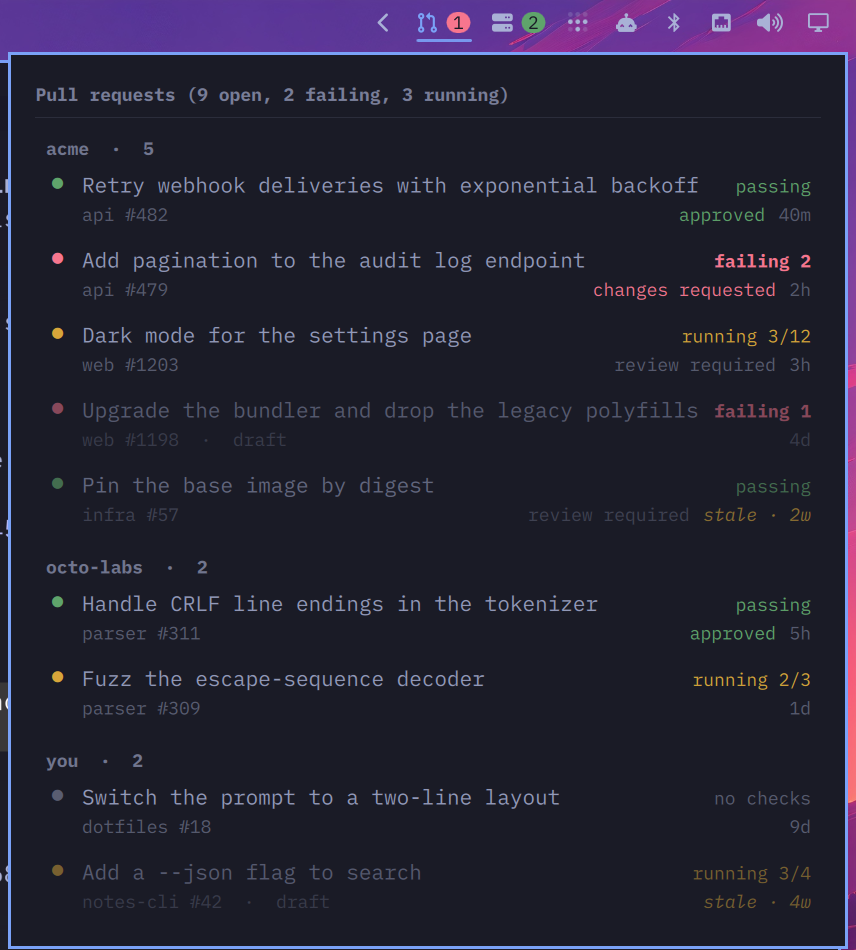
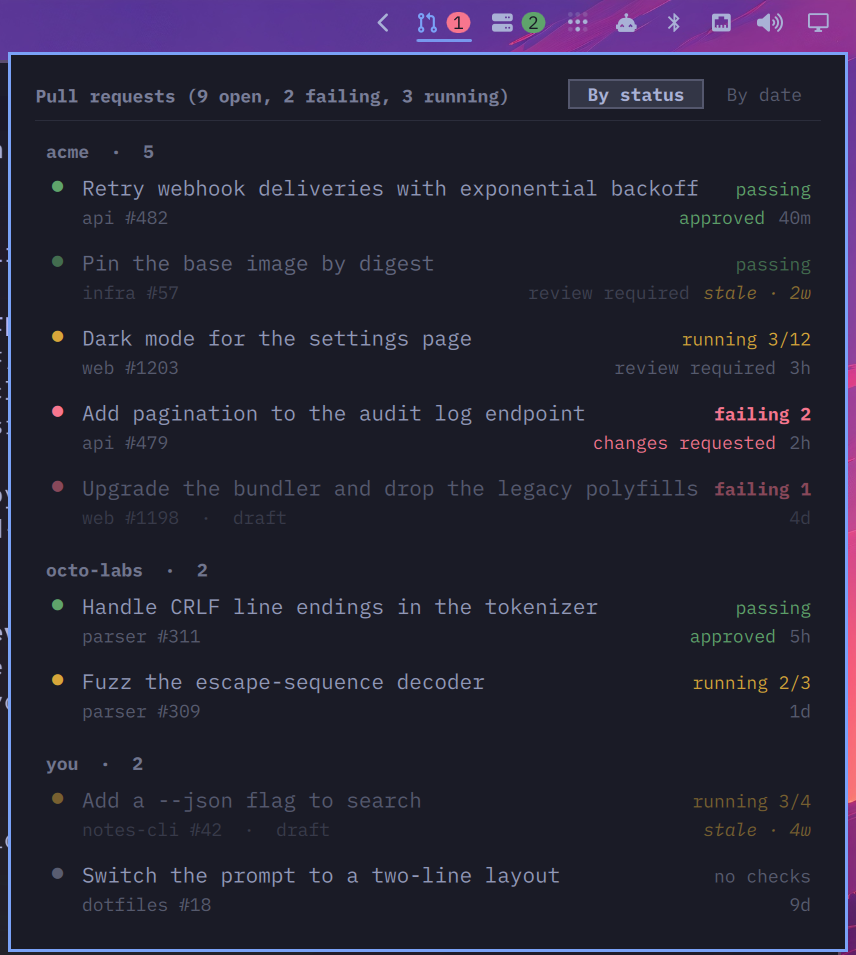
Add a by-status / by-date sort switch to the panel header
By status, the default, lists passing PRs first, then running, failing
and unchecked ones, drafts after the rest in each and newest first within
that, and puts owners with anything passing first. By date is the
previous order: newest first throughout. The s key switches too.

The choice is saved in ~/.local/state/omarchy-gh-prs/sort rather than in
shell.json: other widgets save shell.json from their own copy of it, and
a sort written there was overwritten within seconds in testing.

Also bind x to arming Close PR through PanelKeyCatcher's deleteRequested,
since the catcher never passes x on as a text key.

Claude-Session: https://claude.ai/code/session_01M35wvbyhhMxNppSu6vjHGk

diff --git a/Panel.qml b/Panel.qml
@@ -70,6 +70,11 @@ Panel {
   readonly property int intervalSeconds:
     Math.max(30, Number(setting("interval", 60)) || 60)
   readonly property string query: String(setting("query", ""))
+  // "status" puts what is ready to merge on top; "date" is plain recency.
+  // Chosen from the header and kept in the plugin's own state file rather
+  // than in shell.json: other widgets save shell.json from their own copy of
+  // it, and a choice written there was seen to be overwritten seconds later.
+  property string sortMode: "status"
 
   // ---------------------------------------------------------------- state
 
@@ -188,6 +193,44 @@ Panel {
 
   // Owner headings and PR rows in one flat list, so one ListView scrolls the
   // lot and the cursor can step over the headings.
+  // By status: passing first, then running, failing, and no checks, drafts
+  // after the rest within each, newest first within that. Owners with
+  // anything passing come first, then by their newest PR. By date: newest
+  // first, PRs and owners alike. The script already sends both by date.
+  function sortGroups(groups) {
+    if (sortMode === "date") return groups
+    var rank = { passing: 0, running: 1, failing: 2, none: 3 }
+    function newest(a, b) { return a.updatedAt < b.updatedAt ? 1 : a.updatedAt > b.updatedAt ? -1 : 0 }
+    var out = groups.map(function(g) {
+      var prs = g.prs.slice().sort(function(a, b) {
+        return (rank[a.state] - rank[b.state])
+          || ((a.draft ? 1 : 0) - (b.draft ? 1 : 0))
+          || newest(a, b)
+      })
+      var anyPassing = g.prs.some(function(pr) { return pr.state === "passing" })
+      var latest = g.prs.reduce(function(m, pr) { return pr.updatedAt > m ? pr.updatedAt : m }, "")
+      return { owner: g.owner, failing: g.failing, prs: prs, anyPassing: anyPassing, latest: latest }
+    })
+    out.sort(function(a, b) {
+      return ((b.anyPassing ? 1 : 0) - (a.anyPassing ? 1 : 0))
+        || (a.latest < b.latest ? 1 : a.latest > b.latest ? -1 : 0)
+    })
+    return out
+  }
+
+  function setSort(mode) {
+    if ((mode !== "status" && mode !== "date") || mode === sortMode) return
+    sortMode = mode
+    Util.execArgv([root.script, "sort", mode])
+  }
+
+  function rebuildRows() {
+    rows = flatten(sortGroups(payload ? payload.groups || [] : []))
+    if (!isPr(cursor)) cursor = -1
+  }
+
+  onSortModeChanged: rebuildRows()
+
   function flatten(groups) {
     var out = []
     for (var i = 0; i < groups.length; i++) {
@@ -300,8 +343,7 @@ Panel {
       errorText = data.error || ""
       if (!reachable) return
       payload = data
-      rows = flatten(data.groups || [])
-      if (!isPr(cursor)) cursor = -1
+      rebuildRows()
     } catch (e) {
       reachable = false
       errorText = "unexpected output from gh-prs"
@@ -471,6 +513,19 @@ Panel {
     }
   }
 
+  // The saved sort order, read once at load.
+  Process {
+    id: sortProc
+    command: [root.script, "sort"]
+    running: true
+    stdout: StdioCollector {
+      onStreamFinished: {
+        var m = text.trim()
+        if (m === "status" || m === "date") root.sortMode = m
+      }
+    }
+  }
+
   Process {
     id: listProc
     stdout: StdioCollector {
@@ -518,6 +573,9 @@ Panel {
     triggeredOnStart: true
     onTriggered: root.refresh()
   }
+
+
+
 
 
   BarIconButton {
@@ -596,6 +654,8 @@ Panel {
         if (root.view === "list" && dy !== 0) root.moveCursor(dy)
         else if (root.view === "detail" && dx < 0) root.back()
       }
+      // PanelKeyCatcher hands `x` to deleteRequested rather than textKey.
+      onDeleteRequested: if (root.view === "detail") root.armClose()
       onActivateRequested: {
         if (root.view === "list" && root.isPr(root.cursor)) root.showDetail(root.rows[root.cursor])
       }
@@ -609,7 +669,7 @@ Panel {
         // These only arm the action and show what it will do; the confirm
         // itself is a click, so no run of keystrokes can merge or close.
         else if (t === "m" && root.view === "detail") root.armMerge()
-        else if (t === "x" && root.view === "detail") root.armClose()
+        else if (t === "s" && root.view === "list") root.setSort(root.sortMode === "status" ? "date" : "status")
       }
 
       Column {
@@ -619,8 +679,16 @@ Panel {
 
         // ------------------------------------------------------- header
 
-        PanelSectionHeader {
+        Item {
           width: parent.width
+          height: Math.max(header.implicitHeight, sortSwitch.implicitHeight)
+
+        PanelSectionHeader {
+          id: header
+          anchors.left: parent.left
+          anchors.right: sortSwitch.visible ? sortSwitch.left : parent.right
+          anchors.rightMargin: sortSwitch.visible ? Style.space(8) : 0
+          anchors.verticalCenter: parent.verticalCenter
           text: root.view === "detail" && root.shown
             ? root.shown.repoFull + " #" + root.shown.number
             : root.titleText() + (root.loading ? "  …" : "")
@@ -628,6 +696,34 @@ Panel {
           elide: Text.ElideRight
           foreground: root.foreground
           fontFamily: root.fontFamily
+        }
+
+        // Two states, both always visible, so it reads as "which order" and
+        // not as a button that does something.
+        Row {
+          id: sortSwitch
+          visible: root.view === "list"
+          anchors.right: parent.right
+          anchors.verticalCenter: parent.verticalCenter
+          spacing: Style.space(2)
+
+          Repeater {
+            model: [{ mode: "status", label: "By status" }, { mode: "date", label: "By date" }]
+
+            Button {
+              required property var modelData
+              text: modelData.label
+              selected: root.sortMode === modelData.mode
+              bordered: root.sortMode === modelData.mode
+              fontSize: Style.font.caption
+              verticalPadding: Style.space(1)
+              foreground: root.sortMode === modelData.mode ? root.foreground : root.quiet
+              fontFamily: root.fontFamily
+              tooltipText: "Sort " + modelData.label.toLowerCase() + " (s)"
+              onClicked: root.setSort(modelData.mode)
+            }
+          }
+        }
         }
 
         PanelSeparator { width: parent.width }

diff --git a/README.md b/README.md
@@ -14,8 +14,16 @@ failing, yellow when it is only counting checks still running, and gone when
 there is nothing to count. The tooltip spells out the totals.
 
 The panel lists every open PR, grouped by the org or user that owns the
-repository. Groups are ordered by their most recently updated PR, and PRs
-within a group newest first. Each row has:
+repository, in one of two orders, switched from the header:
+
+- **By status** (the default): within each owner, passing PRs first, then
+  running, failing, and those with no checks, drafts after the rest in each,
+  and newest first within that. Owners with anything passing come first, then
+  by their most recently updated PR.
+- **By date**: newest first, PRs and owners alike, whatever their checks say.
+
+The choice is saved in `~/.local/state/omarchy-gh-prs/sort`, so it survives a
+restart. Each row has:
 
 - **A dot** for the head commit's checks:
   - **green**: every check finished and passed (success, neutral or skipped)
@@ -75,6 +83,7 @@ GitHub refuses the merge instead. It never passes `--admin`.
 | Key | List | Detail view |
 |-----|------|-------------|
 | `↑` `↓` | move between PRs | |
+| `s` | switch between by status and by date | |
 | `Enter` | open the detail view | |
 | `o` | open the PR in the browser | open the PR in the browser |
 | `c` | | copy the link |
